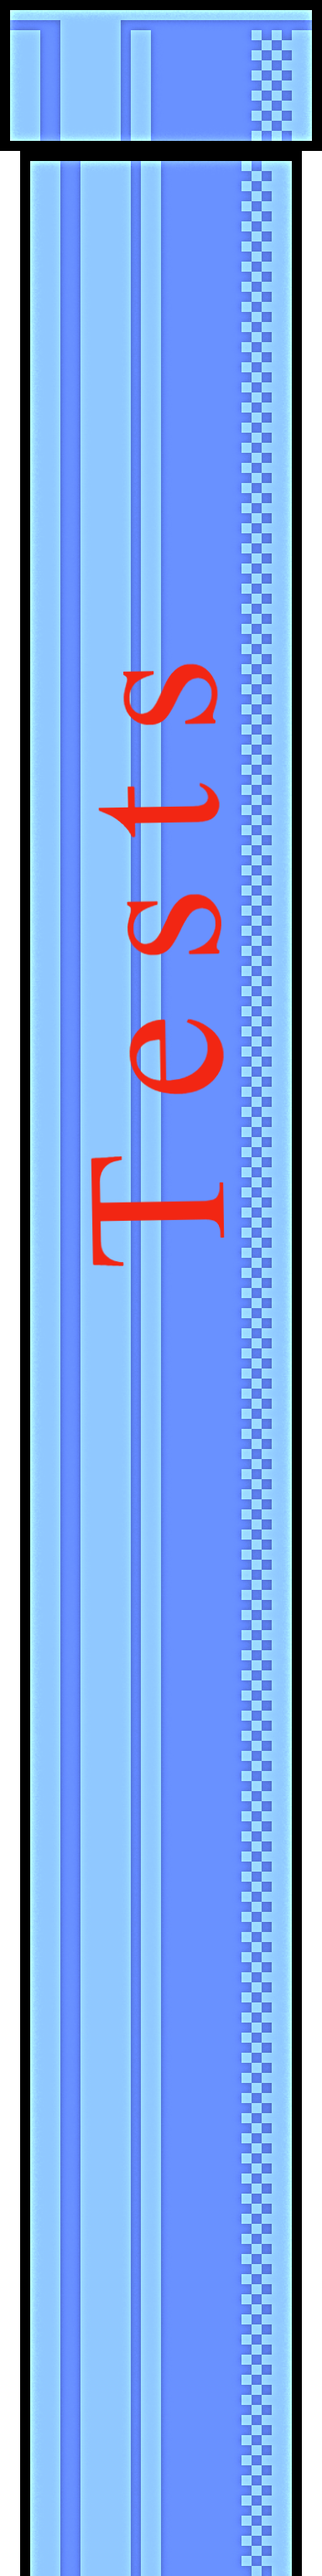
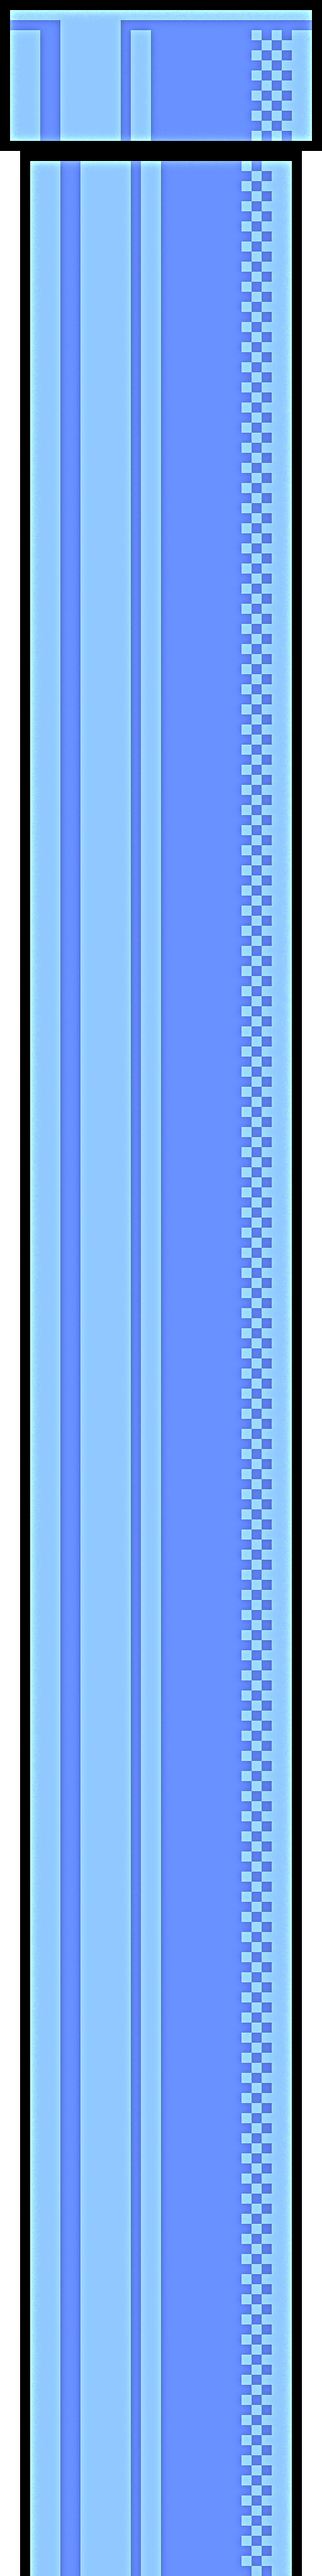
resolving issues

Changed region(s): [[0.2812, 0.25, 0.7188, 0.5]]

diff --git a/README.md b/README.md
@@ -1,1 +1,4 @@
 "# flappyme_game" 
+Inspired from a renowned FlappyBird Game the Flappyme Game shows my struggle in the college life, where I have to dodge Tests and Gaming simultaneously for a higher score.
+
+(This was one of my first projects, Hope you Enjoy!)
